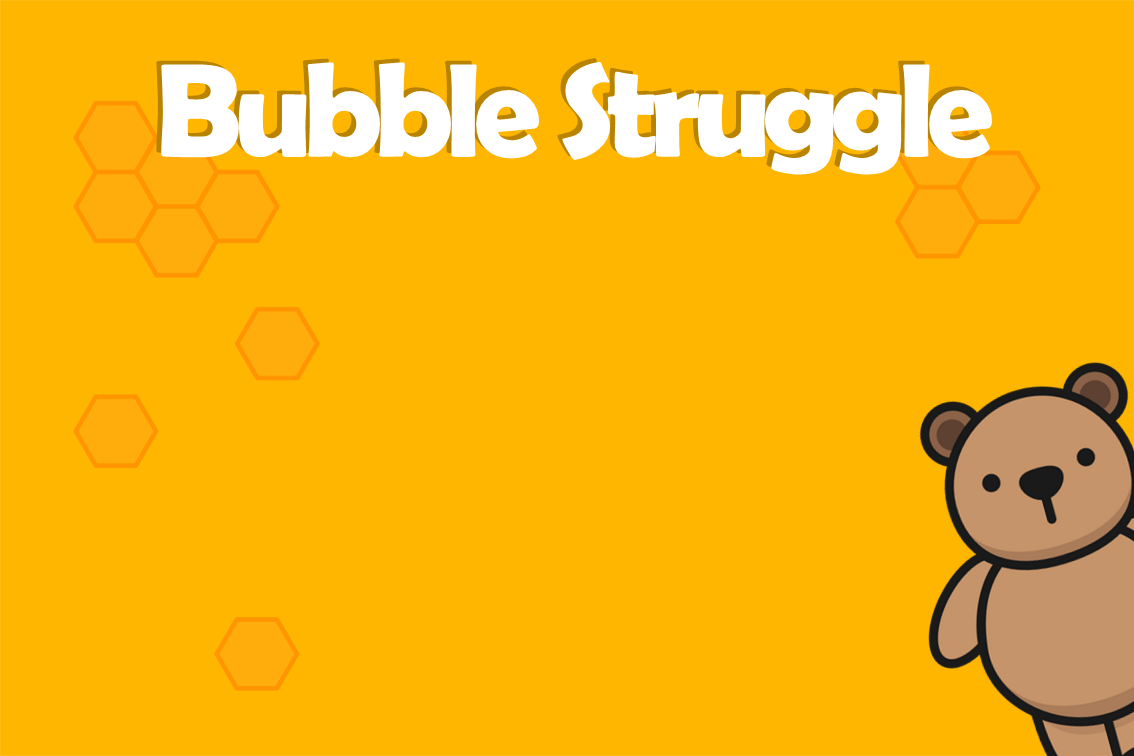
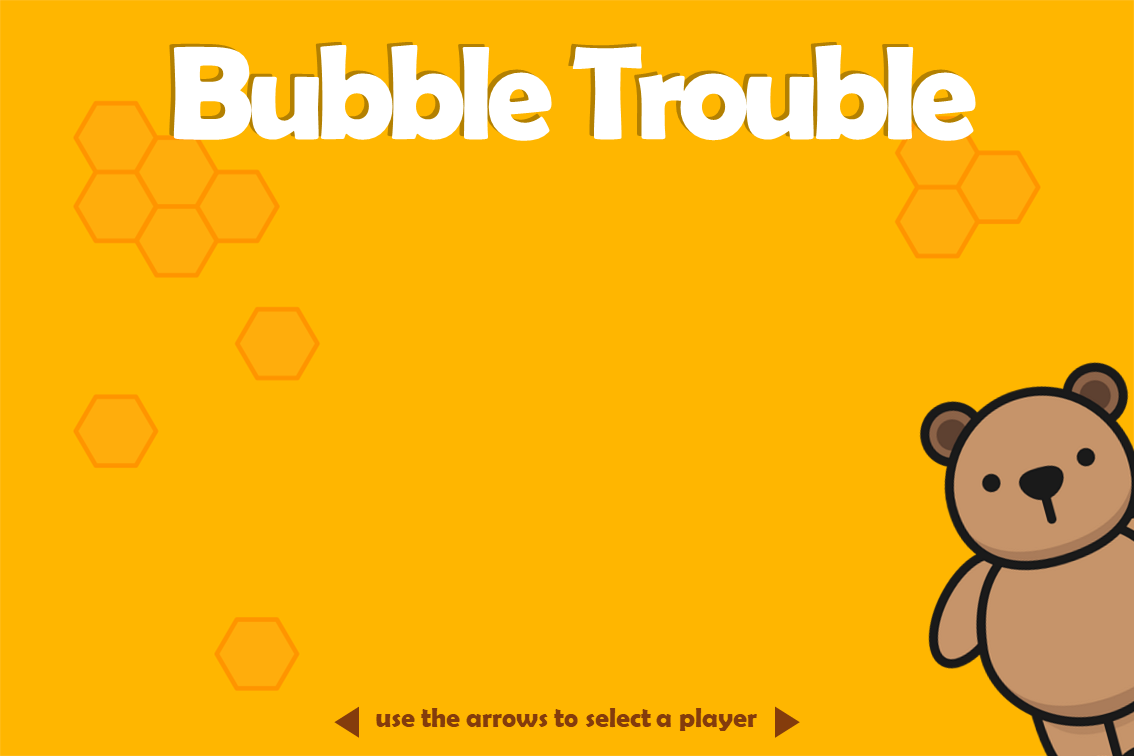
new backgrounds + wall

Changed region(s): [[0.1235, 0.0304, 0.8951, 0.2434], [0.2778, 0.9431, 0.7099, 0.9735]]

diff --git a/include/Resources.h b/include/Resources.h
@@ -31,7 +31,7 @@ private:
 	std::vector<sf::Texture> m_backgroundTextures;
 	std::vector<std::string> m_backgroundTextureNames = { "bearBackground.png", "pandaBackground.png", "polarBackground.png" };
 	std::vector<sf::Texture> m_objectTextures;
-	std::vector<std::string> m_objectTextureNames = { "ball.png", "bear.png", "panda.png", "polarBear.png", "button.png", "honeyRope.png", "bambooRope.png", "polarRope.png" };
+	std::vector<std::string> m_objectTextureNames = { "ball.png", "bear.png", "panda.png", "polarBear.png", "button.png", "honeyRope.png", "bambooRope.png", "polarRope.png", "floor.png", "wall.png" };
 
 	sf::Font m_font;
 	std::vector<std::unique_ptr<sf::SoundBuffer>> m_soundBuffer;

diff --git a/src/MenuScreen.cpp b/src/MenuScreen.cpp
@@ -16,7 +16,7 @@ void MenuScreen::createButton()
 	auto ySize = (windowHieght * (2.f / 3)) / (maxButtonInMenu + 1);
 	auto xSize = 300;
 	auto xPos = windowWitdh / 2.f;
-	auto yPos = windowHieght * (2.f / 5);
+	auto yPos = windowHieght * (4.f / 13);
 
 	for (int i = 0; i < m_buttonNames.size(); ++i)
 	{

diff --git a/include/Macros.h b/include/Macros.h
@@ -22,7 +22,7 @@ constexpr float RATIO = 30.f;			//??
 constexpr float METERS_PER_PIXLE = 1 / RATIO;	//??
 
 //---------------------------------------------------------
-constexpr int numOfObjects = 8;
+constexpr int numOfObjects = 10;
 enum class Objects
 {
 	Ball,
